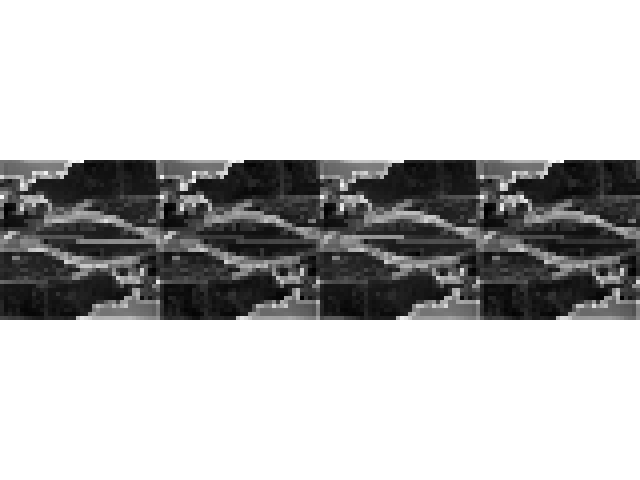
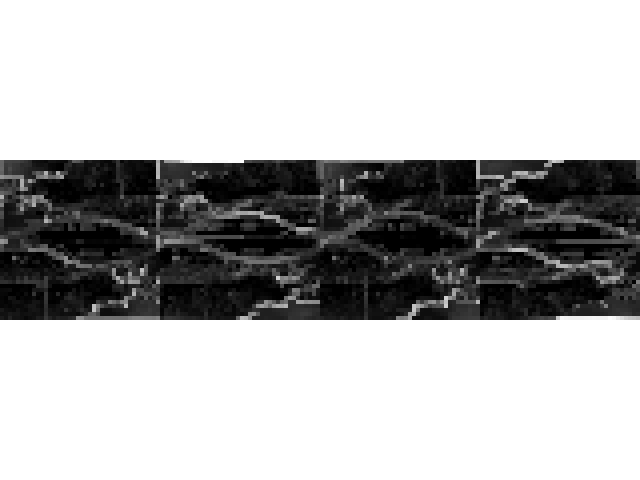
visualize activations

Changed region(s): [[0.0, 0.3125, 1.0, 0.6875], [0.0, 0.625, 0.0625, 0.6875]]

diff --git a/visualize_gcnn.py b/visualize_gcnn.py
@@ -34,8 +34,8 @@ x_r =d2_r(batch[0]).detach().numpy()
 a1, a2, a3, a4 = x1[0].detach().numpy(), x2[0].detach().numpy(), x3[0].detach().numpy(), x4[0].detach().numpy()
 a1_r, a2_r, a3_r, a4_r = x1_r[0].detach().numpy(), x2_r[0].detach().numpy(), x3_r[0].detach().numpy(), x4_r[0].detach().numpy()
 
-a1 = np.hstack([np.mean(a1, axis=1)[i,0] for i in range(a1.shape[0])])
-a1_r = np.hstack([np.mean(a1_r, axis=1)[i,0] for i in range(a1_r.shape[0])])
+a1 = np.hstack([a1[i,0,0] for i in range(a1.shape[0])])
+a1_r = np.hstack([a1_r[i,0,0] for i in range(a1_r.shape[0])])
 fig = plt.figure()
 ax = plt.Axes(fig, [0., 0., 1., 1.])
 ax.set_axis_off()
